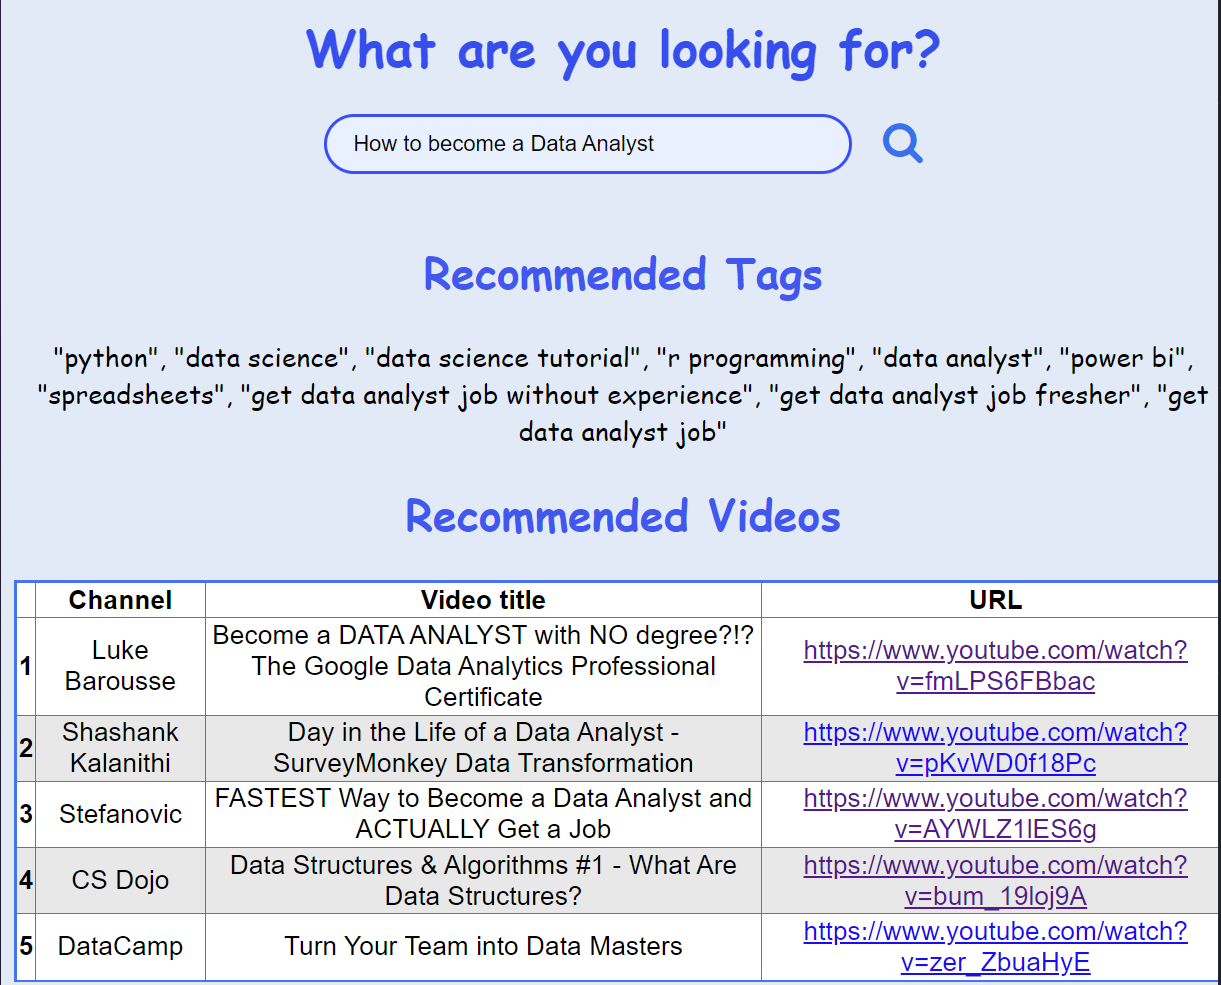
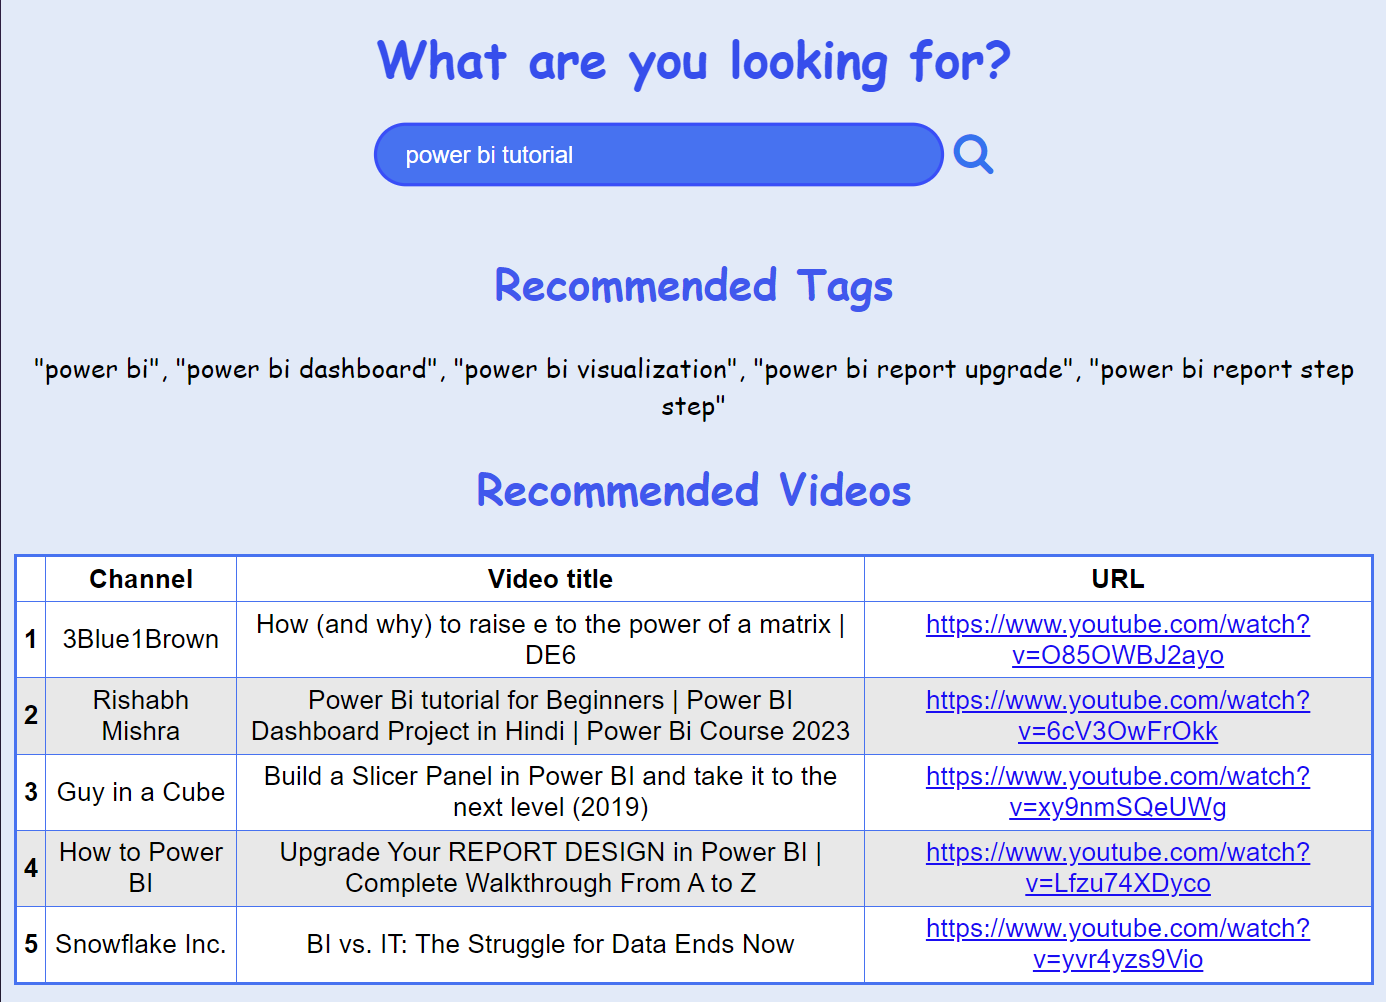
update UI for Flask web app

Changed region(s): [[0.0, 0.0, 1.0, 1.0], [0.249, 0.0305, 0.7781, 0.2132], [0.3423, 0.2437, 0.6847, 0.3046]]

diff --git a/src/templates/index.html b/src/templates/index.html
@@ -5,7 +5,6 @@
     justify-content: center;
     text-align: center;
     background-color: #e1eaf7;
-    width: 100%;
     font-family: comic sans ms;
   }
   *::selection{

diff --git a/src/static/styles/df_style.css b/src/static/styles/df_style.css
@@ -16,7 +16,7 @@
 
 .mystyle td,
 th {
-  padding: 1px;
+  padding: 4px;
 }
 
 .mystyle tr:nth-child(even) {

diff --git a/src/app.py b/src/app.py
@@ -107,7 +107,7 @@ def _recommend_top_n_tags(cluster_id, top_n: int = 10) -> np.ndarray:
 
     # Get only unique tags
     unique_tags = pd.unique(preprocessed_tags)
-    return unique_tags
+    return unique_tags[:top_n]
 
 
 def _add_link(html_string: str) -> str:
@@ -158,9 +158,7 @@ def search():
         recommended_videos.columns = ['Channel', 'Video title', 'URL']
 
         # Additional logic to recommended tags based on the cluster
-        print("start")
         recommended_tags = _recommend_top_n_tags(cluster, top_n=5)
-        print("end")
 
         # Set come variables for rendering the HTML template
         page_name = 'index.html'
@@ -173,9 +171,7 @@ def search():
             page_name,
             tables=[html_string_table],
             titles=recommended_videos.columns.to_numpy(),
-            # tags=[recommended_tags],
             tags=["\"" + "\", \"".join(recommended_tags.tolist()) + "\""],
-
             index=False,
             index_names=False,
             justify="center",
